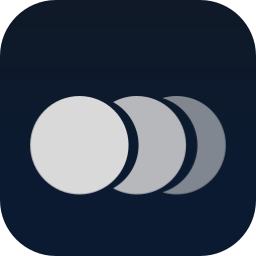
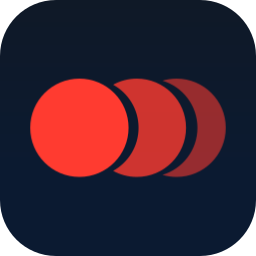
unify styling, simplify readme

Changed region(s): [[0.0938, 0.2812, 0.9062, 0.7812]]

diff --git a/src/overlay.rs b/src/overlay.rs
@@ -13,9 +13,9 @@ use x11rb::{
     wrapper::ConnectionExt as _,
 };
 
-const WIDTH: i32 = 260;
-const HEIGHT: i32 = 64;
-const BOTTOM_MARGIN: i32 = 48;
+const WIDTH: i32 = 480;
+const HEIGHT: i32 = 48;
+const BOTTOM_MARGIN: i32 = 120;
 
 #[derive(Clone, Copy, Debug, Default, Eq, PartialEq)]
 enum Mode {
@@ -29,7 +29,8 @@ enum Mode {
 #[derive(Clone)]
 pub struct Overlay {
     window: gtk::Window,
-    indicator: gtk::Label,
+    recording_logo: gtk::Image,
+    transcribing_logo: gtk::Image,
     message: gtk::Label,
     mode: Rc<Cell<Mode>>,
 }
@@ -38,19 +39,23 @@ impl Overlay {
     pub fn new(application: &adw::Application) -> Self {
         install_css();
 
-        let indicator = gtk::Label::new(Some("●"));
-        indicator.add_css_class("echo-overlay-indicator");
+        let recording_logo = logo_image(include_bytes!("../assets/echo-app-mark.svg"));
+        let transcribing_logo = logo_image(include_bytes!("../assets/echo-app-mark-white.svg"));
 
         let message = gtk::Label::new(None);
         message.add_css_class("echo-overlay-message");
         message.set_ellipsize(gtk::pango::EllipsizeMode::End);
         message.set_max_width_chars(42);
+        message.set_visible(false);
 
         let content = gtk::Box::new(gtk::Orientation::Horizontal, 10);
         content.add_css_class("echo-overlay");
+        content.set_hexpand(true);
+        content.set_vexpand(true);
         content.set_halign(gtk::Align::Center);
         content.set_valign(gtk::Align::Center);
-        content.append(&indicator);
+        content.append(&recording_logo);
+        content.append(&transcribing_logo);
         content.append(&message);
 
         let window = gtk::Window::builder()
@@ -82,11 +87,14 @@ impl Overlay {
         let mode = Rc::new(Cell::new(Mode::Hidden));
         let pulse_phase = Rc::new(Cell::new(0_u8));
         glib::timeout_add_local(Duration::from_millis(175), {
-            let indicator = indicator.clone();
+            let recording_logo = recording_logo.clone();
+            let transcribing_logo = transcribing_logo.clone();
             let mode = mode.clone();
             move || {
                 let phase = pulse_phase.get();
-                indicator.set_opacity(pulse_opacity(mode.get(), phase));
+                let opacity = pulse_opacity(mode.get(), phase);
+                recording_logo.set_opacity(opacity);
+                transcribing_logo.set_opacity(opacity);
                 pulse_phase.set((phase + 1) % 4);
                 glib::ControlFlow::Continue
             }
@@ -94,18 +102,19 @@ impl Overlay {
 
         Self {
             window,
-            indicator,
+            recording_logo,
+            transcribing_logo,
             message,
             mode,
         }
     }
 
     pub fn show_recording(&self) {
-        self.set_mode(Mode::Recording, "Recording…");
+        self.set_mode(Mode::Recording, "");
     }
 
     pub fn show_transcribing(&self) {
-        self.set_mode(Mode::Transcribing, "Transcribing…");
+        self.set_mode(Mode::Transcribing, "");
     }
 
     pub fn show_error(&self, message: &str) {
@@ -120,15 +129,10 @@ impl Overlay {
     fn set_mode(&self, mode: Mode, message: &str) {
         self.mode.set(mode);
         self.message.set_text(message);
-        self.indicator
-            .set_visible(matches!(mode, Mode::Recording | Mode::Transcribing));
-        self.indicator.remove_css_class("recording");
-        self.indicator.remove_css_class("transcribing");
-        match mode {
-            Mode::Recording => self.indicator.add_css_class("recording"),
-            Mode::Transcribing => self.indicator.add_css_class("transcribing"),
-            Mode::Hidden | Mode::Error => {}
-        }
+        self.recording_logo.set_visible(mode == Mode::Recording);
+        self.transcribing_logo
+            .set_visible(mode == Mode::Transcribing);
+        self.message.set_visible(mode == Mode::Error);
         // set_visible maps the already-realized non-focusable window without
         // issuing the activation request that present() would send.
         self.window.set_visible(true);
@@ -215,6 +219,16 @@ fn rectangle_contains(rectangle: &gdk::Rectangle, x: i32, y: i32) -> bool {
         && y < rectangle.y() + rectangle.height()
 }
 
+fn logo_image(bytes: &'static [u8]) -> gtk::Image {
+    let image = gtk::Image::new();
+    if let Ok(texture) = gdk::Texture::from_bytes(&glib::Bytes::from_static(bytes)) {
+        image.set_paintable(Some(&texture));
+    }
+    image.set_pixel_size(18);
+    image.set_visible(false);
+    image
+}
+
 fn pulse_opacity(mode: Mode, phase: u8) -> f64 {
     match mode {
         // Recording changes every 350 ms; transcribing changes every 175 ms.
@@ -232,14 +246,12 @@ fn install_css() {
         "
         window.echo-overlay-window { background: transparent; }
         .echo-overlay {
-            background: alpha(#202124, 0.92);
-            border-radius: 18px;
-            padding: 12px 18px;
+            background: alpha(#202124, 0.78);
+            border: 1px solid alpha(white, 0.12);
+            border-radius: 999px;
+            padding: 12px 16px;
             color: white;
         }
-        .echo-overlay-indicator { font-size: 22px; }
-        .echo-overlay-indicator.recording { color: #ff4d4f; }
-        .echo-overlay-indicator.transcribing { color: #e8eaed; }
         .echo-overlay-message { font-weight: 600; }
         ",
     );

diff --git a/README.md b/README.md
@@ -23,6 +23,18 @@ tar xzf echo-linux-x86_64-0.1.0.tar.gz
 ln -s ~/Downloads/echo-linux-x86_64-0.1.0/echo ~/.local/bin  # if `~/.local/bin` is in PATH
 ```
 
+## Usage
+
+1. Start Echo from an X11 desktop session.
+2. Open the settings window and enter a Groq API key.
+3. Focus an editable text field.
+4. Hold the configured shortcut (F10 by default) and speak.
+5. Release the shortcut to transcribe and paste the result.
+
+Press Escape while recording to cancel. Settings also include the shortcut,
+Whisper model, language, transcription style, custom vocabulary, microphone,
+and last-transcript controls.
+
 ## Status and requirements
 
 The Linux port currently supports:
@@ -34,6 +46,11 @@ The Linux port currently supports:
 - A Secret Service implementation for securely storing the Groq API key.
 - Groq Whisper transcription using `whisper-large-v3-turbo` or
   `whisper-large-v3`.
+
+Echo requires an X11 session, but does not require a desktop environment or
+compositor to launch. A compositor such as
+[`picom`](https://wiki.archlinux.org/title/Picom) is recommended for the
+recording overlay’s transparent, rounded appearance.
 
 On Ubuntu 22.04, install the build dependencies with:
 
@@ -67,21 +84,6 @@ To create an x86-64 release archive and checksum:
 ```sh
 ./packaging/build-release.sh
 ```
-
-The archive is written to `dist/`. See [`packaging/README.txt`](packaging/README.txt)
-for installation and runtime dependency details.
-
-## Use Echo
-
-1. Start Echo from an X11 desktop session.
-2. Open the settings window and enter a Groq API key.
-3. Focus an editable text field.
-4. Hold the configured shortcut (F10 by default) and speak.
-5. Release the shortcut to transcribe and paste the result.
-
-Press Escape while recording to cancel. Settings also include the shortcut,
-Whisper model, language, transcription style, custom vocabulary, microphone,
-and last-transcript controls.
 
 ## Configuration and data
 
